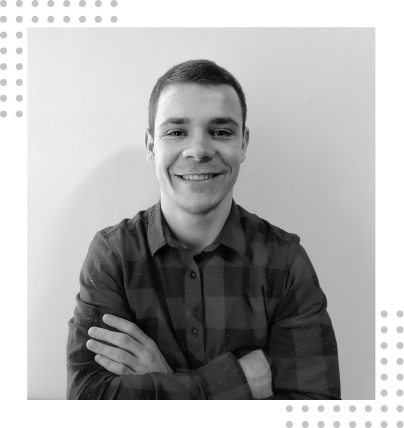
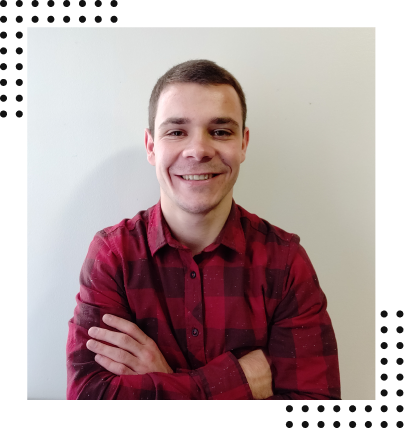
saturation added for about me photo

Changed region(s): [[0.1485, 0.1519, 1.0, 1.0], [0.0, 0.0, 0.297, 0.2734]]

diff --git a/src/sections/about.js b/src/sections/about.js
@@ -34,7 +34,12 @@ const About = () => {
           <p>
             Besides being a developer, I am also a student athlete, majoring in
             <strong> Computer Science</strong> and playing football/soccer for{" "}
-            <a href="https://www.moval.edu/" target="_blank" className="mvc">
+            <a
+              href="https://www.moval.edu/"
+              target="_blank"
+              rel="noopener noreferrer"
+              className="mvc"
+            >
               Missouri Valley College
             </a>
           </p>
@@ -43,7 +48,12 @@ const About = () => {
             focus on the frameworks like <strong>React.js</strong>, Next.js,
             Gatsby, Node and Express.
           </p>
-          <Link href="/resume.pdf" target="_blank" className="resume">
+          <Link
+            href="/resume.pdf"
+            target="_blank"
+            rel="noopener noreferrer"
+            className="resume"
+          >
             Resume
           </Link>
         </div>
@@ -51,7 +61,11 @@ const About = () => {
           <Img
             fluid={aboutImage.childImageSharp.fluid}
             alt="Aleksandar Trujic"
-            imgStyle={{ objectFit: "contain" }}
+            imgStyle={{
+              objectFit: "contain",
+              filter: "saturate(var(--saturation))",
+              transition: "all 150ms linear",
+            }}
             style={{ maxHeight: "40vh" }}
           />
         </div>

diff --git a/src/components/header/DesktopNav.js b/src/components/header/DesktopNav.js
@@ -13,7 +13,7 @@ const DesktopNavbar = ({ theme, toggleTheme }) => {
   const { isMenuOpen, toggleMenu } = useMenuContext();
   const { isScrolled } = useScroll();
   return (
-    <DesktopNav isScrolled={isScrolled}>
+    <Nav isScrolled={isScrolled}>
       <div className="logo-wrap">
         <Link to="home" className="logo">
           <Icon name={theme === "dark" ? "logo-light" : "logo-dark"} />
@@ -21,13 +21,13 @@ const DesktopNavbar = ({ theme, toggleTheme }) => {
       </div>
       <NavLinks theme={theme} toggleTheme={toggleTheme} />
       <Hamburger toggled={isMenuOpen} toggle={toggleMenu} duration={0} />
-    </DesktopNav>
+    </Nav>
   );
 };
 
 export default DesktopNavbar;
 
-const DesktopNav = styled.nav`
+const Nav = styled.nav`
   display: flex;
   flex-flow: row nowrap;
   justify-content: space-around;
@@ -44,7 +44,7 @@ const DesktopNav = styled.nav`
   ${props =>
     props.isScrolled &&
     css`
-      background: var(--bgNav);
+      background: var(--bg2);
       box-shadow: var(--navBoxShadow);
     `}
 

diff --git a/src/components/header/MobileNav.js b/src/components/header/MobileNav.js
@@ -11,9 +11,9 @@ const MobileNavbar = ({ theme, toggleTheme }) => {
   return (
     <>
       {isMenuOpen && (
-        <MobileNav>
+        <Nav>
           <NavLinks theme={theme} toggleTheme={toggleTheme} />
-        </MobileNav>
+        </Nav>
       )}
     </>
   );
@@ -21,7 +21,7 @@ const MobileNavbar = ({ theme, toggleTheme }) => {
 
 export default MobileNavbar;
 
-const MobileNav = styled.nav`
+const Nav = styled.nav`
   position: fixed;
   top: 0;
   left: 0;

diff --git a/src/styles/theme.css b/src/styles/theme.css
@@ -3,8 +3,10 @@
   --bg2: #1f1f1f;
   --bgNav: #030303;
   --text: #d9d9d9;
-  --navBoxShadow: 0px 2px 5px rgba(0, 0, 0, 0.1);
+  --navBoxShadow: 0px 2px 2px 0px rgba(0, 0, 0, 0.14),
+    0px 3px 1px -2px rgba(0, 0, 0, 0.12), 0px 1px 5px 0px rgba(0, 0, 0, 0.2);
   --fontWeight: 300;
+  --saturation: 0;
 }
 
 body.light {
@@ -13,4 +15,5 @@ body.light {
   --bgNav: #fff;
   --text: #121212;
   --fontWeight: 400;
+  --saturation: 100%;
 }
